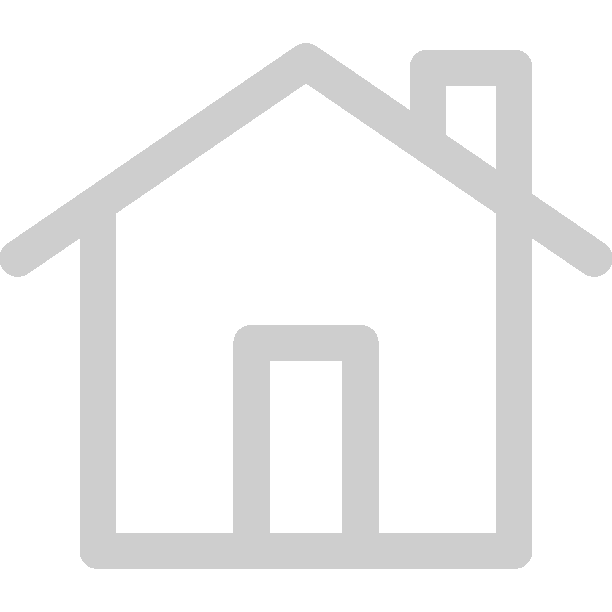
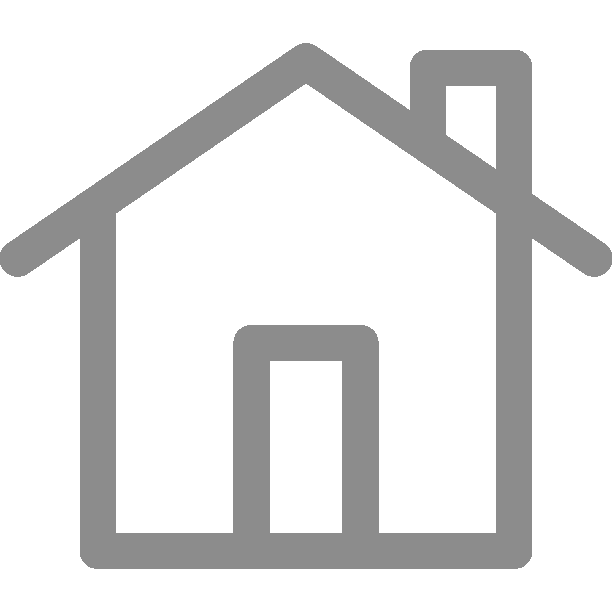
improved Navigation Bar

Changed region(s): [[0.0, 0.0621, 1.0, 0.9314]]

diff --git a/Components/NavigationBar/NavigationBar.js b/Components/NavigationBar/NavigationBar.js
@@ -1,0 +1,99 @@
+import React, {Component} from 'react';
+import {StyleSheet,View,Image,Text, Alert, TouchableHighlight} from 'react-native';
+
+
+import {Font} from 'expo';
+
+Font.loadAsync({Poppins: require('../../assets/Poppins-Regular.ttf')});
+
+const items = [
+    {
+        title: 'Me',
+        imgSrc: require('../../assets/NavigationBar/userProfile.png'),
+        imgSrcActive: require('../../assets/NavigationBar/userProfileActive.png')
+    },
+    {
+        title: 'Order History',
+        imgSrc: require('../../assets/NavigationBar/orderHistory.png'),
+        imgSrcActive: require('../../assets/NavigationBar/orderHistoryActive.png')
+    },
+    {
+        title: 'Home',
+        imgSrc: require('../../assets/NavigationBar/home.png'),
+        imgSrcActive: require('../../assets/NavigationBar/homeActive.png')
+    },
+    {
+        title: 'Support',
+        imgSrc: require('../../assets/NavigationBar/support.png'),
+        imgSrcActive: require('../../assets/NavigationBar/supportActive.png')
+    },
+    {
+        title: 'Settings',
+        imgSrc: require('../../assets/NavigationBar/settings.png'),
+        imgSrcActive: require('../../assets/NavigationBar/settingsActive.png')
+    }
+]
+
+export default class NavigationBar extends Component{
+    constructor(props){
+        super(props);
+        this.state = {active: 'Home'};
+        this.renderItems = this.renderItems.bind(this);
+        //this.handlePress = this.handlePress.bind(this);
+    }
+
+    handlePress(item){
+        this.setState({active: `${item.title}`})
+    }
+
+    renderItems(){
+        return items.map((item) => {
+            return(
+                    <TouchableHighlight onPress={this.handlePress.bind(this, item)} style={styles.highlight}>
+                        <View style={{flex: 1, alignItems: 'center', justifyContent: 'center'}}>
+                            <Image style={styles.imageContainer} source={this.state.active === item.title ? item.imgSrcActive : item.imgSrc} />
+                            <Text style={this.state.active === item.title ? [styles.text, styles.textActive] : styles.text}>{item.title}</Text>                   
+                        </View>
+                    </TouchableHighlight>
+            )
+        })
+    }
+
+    render(){
+        return(
+            <View style={styles.container}>
+                {
+                    this.renderItems()
+                }
+            </View>
+        )
+    }
+}
+
+const styles = StyleSheet.create({
+    container: {
+        flexDirection: 'row',
+        borderTopWidth: 1,
+        borderTopColor: '#d6d6d6',
+        height: 50
+    },
+
+    textActive: {
+        color: '#3eb308'
+    },
+
+    highlight: {
+        flex: 1
+    },
+    text: {
+        color: '#8c8c8c',
+        fontSize: 10,
+        fontWeight: "500"
+    },
+    imageContainer: {
+        width: 30,
+        height: 30,
+        margin: 2
+    }
+
+})

diff --git a/Components/Map/Map.js b/Components/Map/Map.js
@@ -17,16 +17,14 @@ export default class Map extends React.Component {
   }
 
   getCurrentPosition() {
-    const LATITUDE_DELTA = 0.005;
-    const LONGITUDE_DELTA = 0.005;
     try {
       navigator.geolocation.getCurrentPosition(
         (position) => {
           let region = {
             latitude: position.coords.latitude,
             longitude: position.coords.longitude,
-            latitudeDelta: LATITUDE_DELTA,
-            longitudeDelta: LONGITUDE_DELTA,
+            latitudeDelta: 0.005,
+            longitudeDelta: 0.005,
           };
           this.setState({region: region});
         },
@@ -71,7 +69,7 @@ export default class Map extends React.Component {
         />
        <TouchableHighlight onPress={this.onPressButton} underlayColor='white' style={styles.highlight}>
             <View style={styles.button}>
-                <Text style={styles.p}>Request a Service</Text>
+                <Text style={styles.p}>View Services</Text>
             </View>
         </TouchableHighlight> 
       </View>     

diff --git a/App.js b/App.js
@@ -5,6 +5,7 @@ import ProfessionalList from './Components/ProfessionalList/ProfessionalList';
 // import BusinessList from './Components/BusinessList/BusinessList';
 import SearchBar from './Components/SearchBar/SearchBar';
 import Map from './Components/Map/Map';
+import NavigationBar from './Components/NavigationBar/NavigationBar';
 
 Font.loadAsync({Poppins: require('./assets/Poppins-Regular.ttf')});
 
@@ -125,9 +126,9 @@ export default class App extends React.Component {
         </View>
         {/* <SearchBar />
         <BusinessList businesses={businesses}/> 
-        <Map /> 
-        <ProfessionalList/> */ }
-        <Map />
+        <Map /> */ }
+        <ProfessionalList/> 
+        <NavigationBar />
       </View>  
     );
   }

diff --git a/Components/ProfessionalList/ProfessionalList.js b/Components/ProfessionalList/ProfessionalList.js
@@ -73,7 +73,7 @@ export default class ProfessionalList extends Component{
     render(){
         return(
             <FlatList style={styles.professionalList} numColumns={3} data={this.formatData(professionals, this.state.numColumns)}
-             renderItem={({item, index}) => {return Object.keys(item).length !== 0 ? <Professional style={styles.item} professional={item} key={index} /> : <View style={[styles.item, styles.itemInvisible]} key={index} /> }} />
+             renderItem={({item, index}) => {return Object.keys(item).length !== 0 ? <Professional professional={item} key={index} /> : <View style={[styles.item, styles.itemInvisible]} key={index} /> }} />
         );
     }
 }
